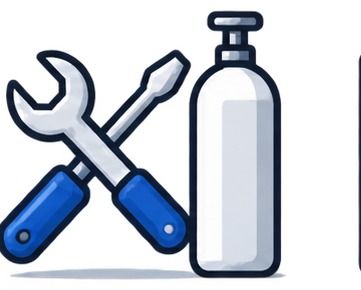
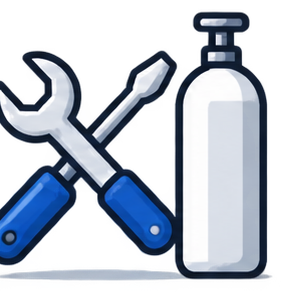
용기검사: 부가검사 아이콘 재추출(여백·잔선 제거, insp-proc-4?v=2), 도장설비 사진 10% 확대·위로 이동. style.css ?v=575

diff --git a/products-supply.html b/products-supply.html
@@ -7,7 +7,7 @@
   <meta name="description" content="고압가스 용기 재검사 — 한국가스안전공사 지정 전문검사기관 ㈜부성테크니컬(계열사)이 접수·내압시험·표면처리·판정의 4단계 검사로 용기 안전을 책임집니다.">
   <link rel="stylesheet" href="assets/css/reset.css">
   <link rel="stylesheet" href="assets/css/variables.css?v=20260801">
-  <link rel="stylesheet" href="assets/css/style.css?v=20260731-574">
+  <link rel="stylesheet" href="assets/css/style.css?v=20260731-575">
 </head>
 <body>
 
@@ -244,7 +244,7 @@
           <span class="inspflow__arrow" aria-hidden="true"></span>
           <div class="inspstep">
             <span class="inspstep__num">04</span>
-            <span class="inspstep__ic" aria-hidden="true"><img src="assets/images/site/insp-proc-4.png?v=1" alt=""></span>
+            <span class="inspstep__ic" aria-hidden="true"><img src="assets/images/site/insp-proc-4.png?v=2" alt=""></span>
             <b class="inspstep__title">부가검사</b>
             <p class="inspstep__desc">밸브, 나사, 부속품 등<br>정밀 검사</p>
           </div>

diff --git a/assets/css/style.css b/assets/css/style.css
@@ -2039,6 +2039,8 @@ html[lang="en"] .greeting__sign .sign-name { display: block; margin-left: 0; mar
 #equipment .facilcard:first-child .facilcard__media img { transform: scale(1.155); }
 /* 쇼트설비(2번): 5% 확대 + 위로 이동 */
 #equipment .facilcard:nth-child(2) .facilcard__media img { transform: translateY(-8px) scale(1.05); }
+/* 도장설비(3번): 10% 확대 + 위로 이동 */
+#equipment .facilcard:nth-child(3) .facilcard__media img { transform: translateY(-10px) scale(1.10); }
 /* 신뢰할 수 있는 검사 서비스(좌 2x2 카드+CTA / 우 사진) */
 .svchead { display: flex; align-items: flex-end; gap: var(--space-6); flex-wrap: wrap; margin-bottom: var(--space-6); }
 .svchead__tt .section__title { margin: 0; }

diff --git a/company.html b/company.html
@@ -7,7 +7,7 @@
   <meta name="description" content="한국탄산화학㈜ 회사소개 — 회사 개요, 주요 사업 영역, 연혁, 조직도, 생산시설 및 강점.">
   <link rel="stylesheet" href="assets/css/reset.css">
   <link rel="stylesheet" href="assets/css/variables.css?v=20260801">
-  <link rel="stylesheet" href="assets/css/style.css?v=20260731-574">
+  <link rel="stylesheet" href="assets/css/style.css?v=20260731-575">
   <!-- 대표이사 서명용 손글씨 폰트 (한글: Nanum Pen Script, 일어: Yomogi) -->
   <link rel="preconnect" href="https://fonts.googleapis.com">
   <link rel="preconnect" href="https://fonts.gstatic.com" crossorigin>

diff --git a/company-overview.html b/company-overview.html
@@ -8,7 +8,7 @@
   <meta name="description" content="한국탄산화학㈜ 회사 개요와 조직도 — 상호·설립·사업분야·생산제품 및 조직 구성.">
   <link rel="stylesheet" href="assets/css/reset.css">
   <link rel="stylesheet" href="assets/css/variables.css?v=20260801">
-  <link rel="stylesheet" href="assets/css/style.css?v=20260731-574">
+  <link rel="stylesheet" href="assets/css/style.css?v=20260731-575">
   <!-- 대표이사 서명용 손글씨 폰트 (한글: Nanum Pen Script, 일어: Yomogi) -->
   <link rel="preconnect" href="https://fonts.googleapis.com">
   <link rel="preconnect" href="https://fonts.gstatic.com" crossorigin>

diff --git a/company-network.html b/company-network.html
@@ -7,7 +7,7 @@
   <meta name="description" content="한국탄산화학㈜ 계열사 — 관계사 네트워크.">
   <link rel="stylesheet" href="assets/css/reset.css">
   <link rel="stylesheet" href="assets/css/variables.css?v=20260801">
-  <link rel="stylesheet" href="assets/css/style.css?v=20260731-574">
+  <link rel="stylesheet" href="assets/css/style.css?v=20260731-575">
   <!-- 대표이사 서명용 손글씨 폰트 (한글: Nanum Pen Script, 일어: Yomogi) -->
   <link rel="preconnect" href="https://fonts.googleapis.com">
   <link rel="preconnect" href="https://fonts.gstatic.com" crossorigin>

diff --git a/products-ice.html b/products-ice.html
@@ -7,7 +7,7 @@
   <meta name="description" content="드라이아이스 너겟·블록 생산설비 日産 36톤. 고밀도 1.60g/㎤·고순도 99.995% 식품용 드라이아이스와 제조공정·용도·취급안전을 소개합니다.">
   <link rel="stylesheet" href="assets/css/reset.css">
   <link rel="stylesheet" href="assets/css/variables.css?v=20260801">
-  <link rel="stylesheet" href="assets/css/style.css?v=20260731-574">
+  <link rel="stylesheet" href="assets/css/style.css?v=20260731-575">
 </head>
 <body>
 

diff --git a/index.html b/index.html
@@ -7,7 +7,7 @@
   <meta name="description" content="한국탄산화학㈜(KLCC)는 산소·질소·아르곤·탄산·수소 등 산업용·의료용 가스와 드라이아이스를 제조·공급하는 전문기업입니다.">
   <link rel="stylesheet" href="assets/css/reset.css">
   <link rel="stylesheet" href="assets/css/variables.css?v=20260801">
-  <link rel="stylesheet" href="assets/css/style.css?v=20260731-574">
+  <link rel="stylesheet" href="assets/css/style.css?v=20260731-575">
 </head>
 <body>
 

diff --git a/products-construction.html b/products-construction.html
@@ -7,7 +7,7 @@
   <meta name="description" content="가스 설비 시설·시공 — 액화가스 저장탱크·기화설비·배관·공급설비를 설계부터 시운전·사후관리까지 원스톱으로 시공합니다.">
   <link rel="stylesheet" href="assets/css/reset.css">
   <link rel="stylesheet" href="assets/css/variables.css?v=20260801">
-  <link rel="stylesheet" href="assets/css/style.css?v=20260731-574">
+  <link rel="stylesheet" href="assets/css/style.css?v=20260731-575">
 </head>
 <body>
 

diff --git a/products-gas.html b/products-gas.html
@@ -7,7 +7,7 @@
   <meta name="description" content="산업용·의료용·혼합·특수·액화석유가스 — 고순도 산소·질소·아르곤·수소·헬륨·탄산·LPG를 Bulk·실린더로 공급·제조합니다.">
   <link rel="stylesheet" href="assets/css/reset.css">
   <link rel="stylesheet" href="assets/css/variables.css?v=20260801">
-  <link rel="stylesheet" href="assets/css/style.css?v=20260731-574">
+  <link rel="stylesheet" href="assets/css/style.css?v=20260731-575">
 </head>
 <body>
 

diff --git a/quality.html b/quality.html
@@ -7,7 +7,7 @@
   <meta name="description" content="고순도 제조 역량, 식품첨가물 탄산가스 품질, 용기검사장, Gas Service Team.">
   <link rel="stylesheet" href="assets/css/reset.css">
   <link rel="stylesheet" href="assets/css/variables.css?v=20260801">
-  <link rel="stylesheet" href="assets/css/style.css?v=20260731-574">
+  <link rel="stylesheet" href="assets/css/style.css?v=20260731-575">
 </head>
 <body>
 

diff --git a/support.html b/support.html
@@ -7,7 +7,7 @@
   <meta name="description" content="한국탄산화학 고객지원 — 사업장 연락처, 자주 묻는 질문.">
   <link rel="stylesheet" href="assets/css/reset.css">
   <link rel="stylesheet" href="assets/css/variables.css?v=20260801">
-  <link rel="stylesheet" href="assets/css/style.css?v=20260731-574">
+  <link rel="stylesheet" href="assets/css/style.css?v=20260731-575">
 </head>
 <body>
 
